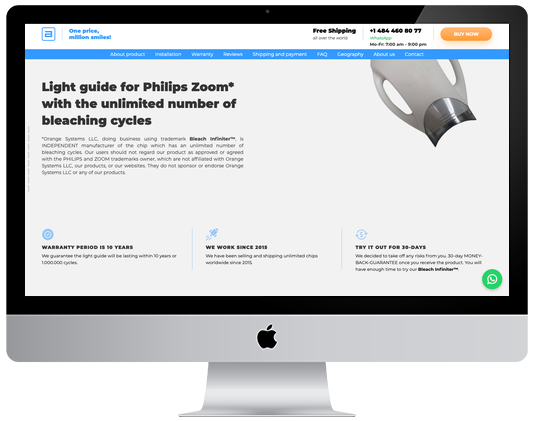
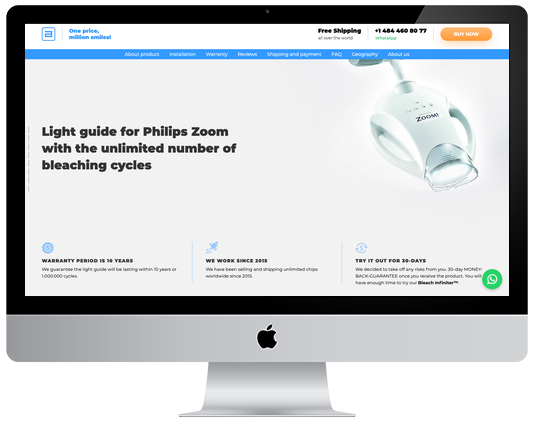
Use bleach-infiniter.com/index_mr.php screenshots on home and projects
Replace the Workshop card on the home page as well.

diff --git a/Portfolio/index.html b/Portfolio/index.html
@@ -309,7 +309,7 @@
                 </div>
                 <div class="card js-card wow fadeInLeft" data-wow-delay="0.5s">
                     <div class="card-item">
-                        <img src="img/works-card2.png" alt="Works Card">
+                        <img src="img/works-card-bleach-infiniter.png" alt="Works Card">
                     </div>
                 </div>
                 <div class="card js-card wow fadeInLeft">
